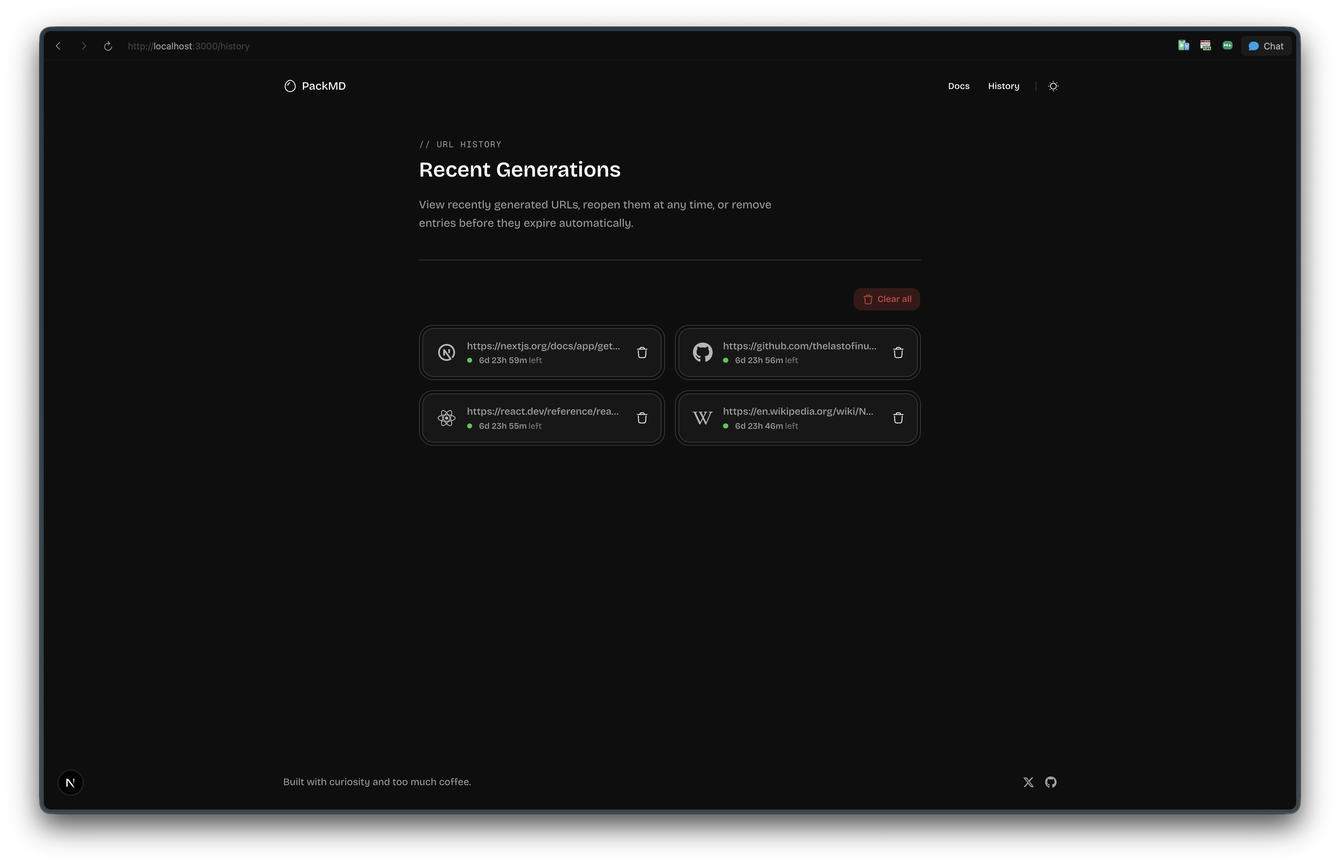
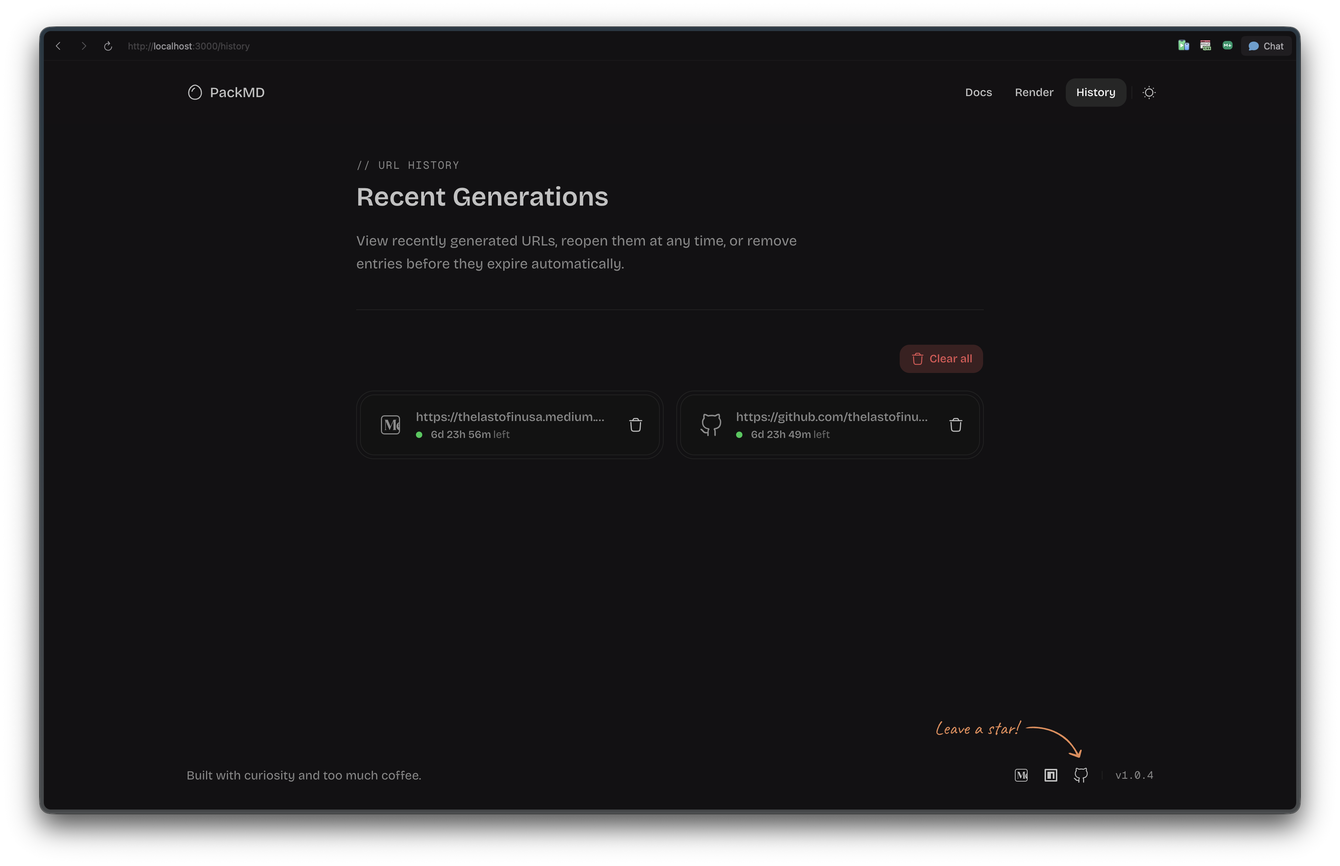
style(theme): update color palette and shadow configuration

diff --git a/apps/web/components/leave-a-star.tsx b/apps/web/components/leave-a-star.tsx
@@ -15,7 +15,7 @@ export const LeaveAStar = () => {
       <svg
         viewBox="0 0 374 118"
         xmlns="http://www.w3.org/2000/svg"
-        className="w-30 fill-muted-foreground sm:w-35"
+        className="w-30 fill-primary sm:w-35"
       >
         <path d="M224.152 30.8296C237.643 23.1003 278.398 28.1952 301.896 40.0697C327.322 52.847 339.091 64.4954 357.957 95.905C358.819 93.8359 359.343 92.0692 360.081 90.5793C360.85 88.8453 361.68 87.0203 362.816 85.5339C363.123 85.0785 364.502 84.8159 365.114 85.0962C365.726 85.3765 366.214 86.6329 366.09 87.2121C364.793 92.6978 363.313 98.0597 361.862 103.575C361.338 105.341 360.051 106.063 358.183 105.466C351.236 102.9 344.227 100.425 337.25 97.7066C335.689 97.0514 334.283 95.5731 332.448 94.3352C336.558 91.4092 339.554 94.0928 342.615 94.7001C345.83 95.2784 348.921 96.4357 352.87 97.5091C348.694 87.2717 343.136 78.885 336.321 71.3729C311.444 43.7275 279.739 31.3527 243.141 30.7841C238.363 30.7417 233.615 31.2494 228.868 31.36C227.551 31.1346 226.326 30.971 224.152 30.8296Z" />
         <path d="M5.56786 47.824C4.28786 47.504 3.13586 46.864 2.11186 45.904C1.11986 44.944 0.479856 43.952 0.191856 42.928C0.159856 42.512 0.111856 41.968 0.0478557 41.296C0.0158557 40.624 -0.000144362 40 -0.000144362 39.424C0.0318557 38.848 0.0798557 38.512 0.143856 38.416C0.239856 38.352 0.287856 38.16 0.287856 37.84C0.255856 37.712 0.271856 37.504 0.335856 37.216C0.431856 36.896 0.527856 36.576 0.623856 36.256C0.783856 35.872 0.863856 35.568 0.863856 35.344C0.863856 35.088 0.847856 34.896 0.815856 34.768C0.815856 34.768 0.863856 34.672 0.959856 34.48C1.05586 34.256 1.16786 34.08 1.29586 33.952C1.48786 33.76 1.56786 33.568 1.53586 33.376C1.53586 33.184 1.53586 33.088 1.53586 33.088C1.50386 32.96 1.53586 32.784 1.63186 32.56C1.72786 32.336 1.82386 32.16 1.91986 32.032C1.98386 31.968 2.06386 31.84 2.15986 31.648C2.28786 31.424 2.35186 31.312 2.35186 31.312C2.35186 31.216 2.41586 30.96 2.54386 30.544C2.70386 30.128 2.87986 29.68 3.07186 29.2C3.26386 28.688 3.43986 28.224 3.59986 27.808C3.79186 27.392 3.93586 27.12 4.03186 26.992V26.896C4.15986 26.576 4.33586 26.24 4.55986 25.888C4.59186 25.728 4.67186 25.472 4.79986 25.12C4.92786 24.736 5.07186 24.368 5.23186 24.016C5.58386 23.248 6.01586 22.384 6.52786 21.424C7.07186 20.432 7.64786 19.456 8.25586 18.496C8.86386 17.504 9.43986 16.624 9.98386 15.856C10.5599 15.056 11.0559 14.464 11.4719 14.08C12.0159 13.472 12.4479 13.152 12.7679 13.12C13.0879 13.088 13.4879 13.312 13.9679 13.792C14.1919 14.016 14.3519 14.288 14.4479 14.608C14.5439 14.928 14.5759 15.216 14.5439 15.472C14.5439 15.696 14.4799 15.824 14.3519 15.856C14.1279 15.984 13.7919 16.352 13.3439 16.96C12.8959 17.536 12.3839 18.224 11.8079 19.024C11.2639 19.824 10.7199 20.656 10.1759 21.52C9.66386 22.352 9.21586 23.104 8.83186 23.776C8.41586 24.704 8.03186 25.52 7.67986 26.224C7.32786 26.896 7.15186 27.232 7.15186 27.232C7.11986 27.328 7.08786 27.408 7.05586 27.472C7.02386 27.536 6.99186 27.6 6.95986 27.664C6.47986 28.656 6.07986 29.568 5.75986 30.4C5.43986 31.2 5.11986 32.048 4.79986 32.944C4.60786 33.168 4.49586 33.392 4.46386 33.616C4.43186 33.84 4.41586 33.952 4.41586 33.952C4.35186 33.92 4.30386 34 4.27186 34.192C4.23986 34.352 4.17586 34.544 4.07986 34.768C3.91986 34.896 3.82386 35.104 3.79186 35.392C3.75986 35.648 3.74386 35.904 3.74386 36.16C3.51986 36.736 3.31186 37.44 3.11986 38.272C2.92786 39.072 2.78386 39.856 2.68786 40.624C2.62386 41.36 2.60786 41.936 2.63986 42.352C2.70386 42.896 2.97586 43.392 3.45586 43.84C3.96786 44.256 4.57586 44.608 5.27986 44.896C5.63186 45.024 5.93586 45.136 6.19186 45.232C6.44786 45.296 6.68786 45.328 6.91186 45.328C7.16786 45.36 7.48786 45.36 7.87186 45.328C8.28786 45.264 8.84786 45.168 9.55186 45.04H9.50386C9.91986 44.976 10.3519 44.896 10.7999 44.8C11.2799 44.672 11.7279 44.56 12.1439 44.464C12.5279 44.4 12.8959 44.336 13.2479 44.272C13.5999 44.176 13.8719 44.096 14.0639 44.032C14.7679 43.84 15.2799 43.712 15.5999 43.648C15.9199 43.552 16.1599 43.568 16.3199 43.696C16.4799 43.824 16.5919 43.984 16.6559 44.176C16.7199 44.336 16.7039 44.56 16.6079 44.848C16.5439 45.008 16.2879 45.248 15.8399 45.568C15.3919 45.856 14.8479 46.144 14.2079 46.432C13.5999 46.72 12.9919 46.96 12.3839 47.152C11.7439 47.44 10.9759 47.664 10.0799 47.824C9.21586 47.984 8.36786 48.064 7.53586 48.064C6.73586 48.064 6.07986 47.984 5.56786 47.824ZM28.8374 44.32C28.1654 44.896 27.3814 45.232 26.4854 45.328C25.6214 45.424 24.7734 45.296 23.9414 44.944C23.1094 44.56 22.4214 43.984 21.8774 43.216C21.3334 42.512 20.9814 41.712 20.8214 40.816C20.6614 39.888 20.6454 38.688 20.7734 37.216C20.8694 35.968 21.2694 34.72 21.9734 33.472C22.6774 32.192 23.5254 31.056 24.5174 30.064C25.5414 29.072 26.5494 28.384 27.5414 28C28.0214 27.68 28.4214 27.536 28.7414 27.568C29.0934 27.568 29.6214 27.6 30.3254 27.664C31.0614 27.76 31.6054 27.904 31.9574 28.096C32.3414 28.288 32.6454 28.544 32.8694 28.864C33.3494 29.344 33.6694 29.824 33.8294 30.304C33.9894 30.752 34.0694 31.2 34.0694 31.648C33.9414 32.352 33.4614 33.216 32.6294 34.24C31.8294 35.232 30.7734 36.048 29.4614 36.688C28.7574 36.912 27.9894 37.008 27.1574 36.976C26.3254 36.944 25.6374 36.736 25.0934 36.352C24.4854 36.096 24.0854 36.144 23.8934 36.496C23.7014 36.816 23.5254 37.616 23.3654 38.896C23.2374 40.112 23.3334 41.008 23.6534 41.584C23.9734 42.128 24.4054 42.448 24.9494 42.544C25.5894 42.672 26.0854 42.768 26.4374 42.832C26.8214 42.864 27.2854 42.72 27.8294 42.4C28.3414 42.08 28.6614 41.904 28.7894 41.872C28.9174 41.808 29.0134 41.744 29.0774 41.68C29.1734 41.584 29.3814 41.376 29.7014 41.056C29.9254 40.832 30.1014 40.672 30.2294 40.576C30.3574 40.448 30.5014 40.384 30.6614 40.384C30.8214 40.384 30.9654 40.464 31.0934 40.624C31.2214 40.752 31.3494 40.848 31.4774 40.912C31.7974 40.912 31.8614 41.104 31.6694 41.488C31.5094 41.872 31.1734 42.336 30.6614 42.88C30.1494 43.392 29.5414 43.872 28.8374 44.32ZM28.7894 34.144C29.1414 33.984 29.5094 33.76 29.8934 33.472C30.2774 33.152 30.5974 32.816 30.8534 32.464C31.1414 32.08 31.2854 31.76 31.2854 31.504C31.2854 31.056 31.0774 30.688 30.6614 30.4C30.2454 30.08 29.6214 30.032 28.7894 30.256C28.4374 30.352 28.0374 30.592 27.5894 30.976C27.1414 31.328 26.7094 31.728 26.2934 32.176C25.9094 32.624 25.5894 33.024 25.3334 33.376C25.1094 33.728 25.0294 33.936 25.0934 34C25.1894 34.16 25.4614 34.288 25.9094 34.384C26.3574 34.448 26.8534 34.464 27.3974 34.432C27.9734 34.4 28.4374 34.304 28.7894 34.144ZM40.0787 44.608C39.8227 44.672 39.4867 44.704 39.0707 44.704C38.6547 44.672 38.2867 44.624 37.9667 44.56C37.6787 44.464 37.5347 44.368 37.5347 44.272C37.5347 44.112 37.4547 44.032 37.2947 44.032C37.2947 44.032 37.2147 43.968 37.0547 43.84C36.9267 43.712 36.7187 43.584 36.4307 43.456C36.1427 43.008 35.9987 42.528 35.9987 42.016C35.9987 41.472 36.1427 40.624 36.4307 39.472C36.5267 38.672 36.8307 37.744 37.3427 36.688C37.8867 35.6 38.5427 34.496 39.3107 33.376C40.0787 32.256 40.8787 31.248 41.7107 30.352C42.5747 29.456 43.3587 28.8 44.0627 28.384C44.5107 27.936 45.0547 27.696 45.6947 27.664C46.3347 27.632 46.9427 27.776 47.5187 28.096C47.8387 28.256 48.1587 28.512 48.4787 28.864C48.7987 29.216 49.1027 29.6 49.3907 30.016C49.6787 30.432 49.9187 30.848 50.1107 31.264C50.2067 31.616 50.2547 31.936 50.2547 32.224C50.2867 32.48 50.2867 32.8 50.2547 33.184C50.2547 33.568 50.2067 34.144 50.1107 34.912C49.9507 35.488 49.8067 36.192 49.6787 37.024C49.5827 37.856 49.5347 38.576 49.5347 39.184C49.4707 39.792 49.5347 40.224 49.7267 40.48C49.9507 40.736 50.2707 40.752 50.6867 40.528C51.0707 40.336 51.4387 40.256 51.7907 40.288C52.1427 40.288 52.4147 40.384 52.6067 40.576C52.8307 40.768 52.9427 41.056 52.9427 41.44C52.9427 41.824 52.7507 42.224 52.3667 42.64C52.0147 43.024 51.5667 43.36 51.0227 43.648C50.5107 43.904 50.0147 44.032 49.5347 44.032C49.1827 44.032 48.8467 43.824 48.5267 43.408C48.2067 42.96 47.9187 42.432 47.6627 41.824C47.4387 41.184 47.2307 40.576 47.0387 40L46.7507 38.896L44.6867 40.864C44.2707 41.312 43.8547 41.728 43.4387 42.112C43.0547 42.464 42.8147 42.72 42.7187 42.88C42.5587 43.168 42.2547 43.456 41.8067 43.744C41.3907 44.032 40.8147 44.32 40.0787 44.608ZM40.2227 41.776C40.7667 41.456 41.3907 40.992 42.0947 40.384C42.7987 39.744 43.4867 39.056 44.1587 38.32C44.8307 37.552 45.3907 36.848 45.8387 36.208C46.3827 35.472 46.7987 34.784 47.0867 34.144C47.3747 33.504 47.5827 32.896 47.7107 32.32C47.5827 31.968 47.3747 31.6 47.0867 31.216C46.7987 30.8 46.5427 30.576 46.3187 30.544C45.6147 30.544 44.8627 30.992 44.0627 31.888C43.2947 32.752 42.5427 33.696 41.8067 34.72C41.6787 34.88 41.5027 35.136 41.2787 35.488C41.0547 35.84 40.8307 36.176 40.6067 36.496C40.4147 36.784 40.2867 36.976 40.2227 37.072C40.1267 37.2 39.9347 37.568 39.6467 38.176C39.3907 38.752 39.1347 39.344 38.8787 39.952C38.6227 40.528 38.4947 40.912 38.4947 41.104C38.4947 41.296 38.5107 41.504 38.5427 41.728C38.6067 41.952 38.7667 42.096 39.0227 42.16C39.2787 42.224 39.6787 42.096 40.2227 41.776ZM59.2484 43.072C59.0244 42.88 58.7364 42.304 58.3844 41.344C58.0644 40.384 57.7444 39.264 57.4244 37.984C57.1364 36.672 56.8964 35.472 56.7044 34.384C56.5764 33.744 56.4324 33.2 56.2724 32.752C56.1444 32.304 56.0324 31.936 55.9364 31.648C55.7764 31.072 55.7284 30.592 55.7924 30.208C55.8564 29.824 56.0804 29.52 56.4644 29.296C56.6244 29.2 56.8164 29.136 57.0404 29.104C57.2964 29.04 57.4884 29.024 57.6164 29.056C58.0004 29.184 58.3524 29.776 58.6724 30.832C58.9924 31.856 59.2804 33.216 59.5364 34.912C59.6644 35.904 59.8244 36.752 60.0164 37.456C60.2084 38.16 60.3044 38.576 60.3044 38.704C60.4324 38.96 60.5764 39.216 60.7364 39.472C60.9284 39.696 61.1524 39.68 61.4084 39.424C61.5364 39.296 61.7924 39.008 62.1764 38.56C62.5924 38.112 62.9924 37.632 63.3764 37.12C64.0484 36.224 64.5764 35.488 64.9604 34.912C65.3764 34.336 65.8404 33.728 66.3524 33.088C66.5764 32.768 66.8324 32.416 67.1204 32.032C67.4084 31.648 67.6964 31.296 67.9844 30.976C68.3044 30.624 68.5924 30.416 68.8484 30.352C69.6164 30.224 70.0324 30.384 70.0964 30.832C70.1604 31.28 69.8724 31.952 69.2324 32.848C68.9764 33.232 68.7684 33.6 68.6084 33.952C68.4804 34.272 68.3524 34.496 68.2244 34.624C67.9684 35.136 67.5684 35.792 67.0244 36.592C66.4804 37.36 65.9524 38.08 65.4404 38.752C64.9284 39.392 64.5764 39.808 64.3844 40C64.2564 40.128 63.9684 40.368 63.5204 40.72C63.1044 41.072 62.7044 41.52 62.3204 42.064C61.5524 42.8 60.9444 43.248 60.4964 43.408C60.0484 43.568 59.6324 43.456 59.2484 43.072ZM74.515 44.848C73.267 44.336 72.451 43.632 72.067 42.736C71.715 41.808 71.651 40.384 71.875 38.464C71.939 37.472 71.971 36.816 71.971 36.496C71.971 36.176 71.795 35.856 71.443 35.536C71.347 35.408 71.171 35.232 70.915 35.008C70.691 34.784 70.595 34.592 70.627 34.432C70.595 34.208 70.611 33.968 70.675 33.712C70.739 33.424 70.835 33.28 70.963 33.28C71.091 33.28 71.219 33.248 71.347 33.184C71.507 33.12 71.651 33.12 71.779 33.184C71.907 33.184 72.051 33.2 72.211 33.232C72.371 33.264 72.451 33.344 72.451 33.472C72.579 33.696 72.787 33.728 73.075 33.568C73.363 33.376 73.667 32.96 73.987 32.32C74.307 31.808 74.723 31.296 75.235 30.784C75.779 30.272 76.307 29.808 76.819 29.392C77.363 28.944 77.811 28.624 78.163 28.432C78.323 28.368 78.563 28.288 78.883 28.192C79.203 28.096 79.539 28.016 79.891 27.952C80.275 27.888 80.595 27.872 80.851 27.904C81.427 27.936 81.907 28.096 82.291 28.384C82.707 28.672 83.091 29.008 83.443 29.392C83.859 29.68 84.115 30.064 84.211 30.544C84.339 31.024 84.371 31.536 84.307 32.08C84.243 32.624 84.099 33.12 83.875 33.568C83.779 33.888 83.507 34.272 83.059 34.72C82.611 35.168 82.099 35.6 81.523 36.016C80.947 36.432 80.419 36.736 79.939 36.928C79.523 37.024 78.979 37.104 78.307 37.168C77.667 37.232 77.059 37.264 76.483 37.264C75.939 37.232 75.571 37.168 75.379 37.072C75.155 36.944 74.979 37.12 74.851 37.6C74.723 38.08 74.627 38.768 74.563 39.664C74.499 40.368 74.499 40.88 74.563 41.2C74.627 41.52 74.691 41.744 74.755 41.872C74.979 42.096 75.283 42.384 75.667 42.736C76.083 43.056 76.659 43.104 77.395 42.88C78.003 42.72 78.595 42.304 79.171 41.632C79.779 40.96 80.339 40.416 80.851 40C80.979 39.776 81.187 39.648 81.475 39.616C81.795 39.552 82.131 39.568 82.483 39.664C82.835 39.888 82.979 40.16 82.915 40.48C82.883 40.768 82.723 41.216 82.435 41.824C82.339 42.048 82.115 42.336 81.763 42.688C81.443 43.008 81.075 43.344 80.659 43.696C80.275 44.016 79.923 44.272 79.603 44.464C78.643 44.976 77.747 45.248 76.915 45.28C76.083 45.28 75.283 45.136 74.515 44.848ZM77.347 35.104C78.051 34.944 78.611 34.832 79.027 34.768C79.443 34.704 79.843 34.528 80.227 34.24C80.611 33.92 81.091 33.328 81.667 32.464C81.795 32.112 81.827 31.76 81.763 31.408C81.731 31.056 81.651 30.816 81.523 30.688C81.235 30.368 80.883 30.272 80.467 30.4C80.083 30.496 79.715 30.672 79.363 30.928C79.139 31.024 78.803 31.264 78.355 31.648C77.939 32 77.523 32.416 77.107 32.896C76.691 33.344 76.355 33.76 76.099 34.144C75.843 34.528 75.779 34.752 75.907 34.816C75.843 34.944 76.019 35.024 76.435 35.056C76.883 35.088 77.187 35.104 77.347 35.104ZM98.7254 44.272C98.5974 44.016 98.4374 43.824 98.2454 43.696C98.0534 43.536 97.9574 43.392 97.9574 43.264C97.9574 43.136 97.9414 43.008 97.9094 42.88C97.9094 42.72 97.8454 42.576 97.7174 42.448C97.5574 42.256 97.5734 41.824 97.7654 41.152C97.9574 40.448 98.2774 39.6 98.7254 38.608C99.1734 37.584 99.7014 36.512 100.309 35.392C100.565 35.136 100.821 34.8 101.077 34.384C101.333 33.968 101.525 33.696 101.653 33.568C101.653 33.44 101.701 33.328 101.797 33.232C101.893 33.104 102.005 33.04 102.133 33.04V32.752C102.133 32.592 102.277 32.32 102.565 31.936C102.885 31.552 103.269 31.136 103.717 30.688C104.165 30.208 104.629 29.76 105.109 29.344C105.589 28.896 105.989 28.576 106.309 28.384C106.981 27.936 107.669 27.664 108.373 27.568C109.109 27.472 109.733 27.632 110.245 28.048C110.341 28.144 110.501 28.304 110.725 28.528C110.949 28.752 111.205 29.008 111.493 29.296C111.813 29.552 112.133 29.824 112.453 30.112L114.229 31.696L113.365 34.096C112.949 35.376 112.837 36.496 113.029 37.456C113.253 38.416 113.573 39.248 113.989 39.952C114.149 40.304 114.469 40.64 114.949 40.96C115.461 41.28 115.941 41.472 116.389 41.536C116.645 41.568 116.885 41.664 117.109 41.824C117.333 41.984 117.445 42.24 117.445 42.592C117.445 42.912 117.381 43.168 117.253 43.36C117.125 43.552 116.901 43.68 116.581 43.744C115.525 43.872 114.533 43.616 113.605 42.976C112.709 42.336 111.877 41.28 111.109 39.808C110.981 39.616 110.805 39.264 110.581 38.752C110.389 38.208 110.277 37.856 110.245 37.696C110.117 37.856 109.877 38.16 109.525 38.608C109.173 39.024 108.901 39.328 108.709 39.52C106.437 41.824 104.469 43.376 102.805 44.176C101.173 44.944 99.8134 44.976 98.7254 44.272ZM100.453 41.584C100.453 41.808 100.789 41.808 101.461 41.584C102.165 41.328 102.917 40.88 103.717 40.24C104.805 39.312 105.893 38.288 106.981 37.168C108.101 36.048 108.997 35.008 109.669 34.048L110.725 32.32C110.405 31.584 110.053 31.088 109.669 30.832C109.317 30.544 109.013 30.4 108.757 30.4C108.341 30.4 107.717 30.784 106.885 31.552C106.085 32.32 105.221 33.344 104.293 34.624C103.365 35.904 102.485 37.312 101.653 38.848C101.333 39.488 101.045 40.112 100.789 40.72C100.565 41.296 100.453 41.584 100.453 41.584ZM135.527 45.568C134.727 45.632 133.959 45.584 133.223 45.424C132.519 45.264 131.911 44.992 131.399 44.608C130.919 44.192 130.583 43.696 130.391 43.12C130.167 42.672 130.055 42.368 130.055 42.208C130.055 42.016 130.167 41.856 130.391 41.728C130.647 41.728 130.871 41.808 131.063 41.968C131.287 42.096 131.575 42.24 131.927 42.4C132.407 42.816 132.983 43.04 133.655 43.072C134.359 43.104 134.999 42.992 135.575 42.736C136.151 42.48 136.471 42.16 136.535 41.776C136.535 41.648 136.487 41.424 136.391 41.104C136.295 40.784 136.183 40.448 136.055 40.096C135.191 38.88 134.551 37.68 134.135 36.496C133.751 35.28 133.559 34.288 133.559 33.52C133.559 32.944 133.735 32.336 134.087 31.696C134.439 31.024 134.919 30.464 135.527 30.016C136.103 29.408 136.743 28.864 137.447 28.384C138.151 27.904 138.855 27.488 139.559 27.136C140.295 26.784 140.951 26.528 141.527 26.368C141.879 26.368 142.343 26.416 142.919 26.512C143.495 26.608 143.895 26.72 144.119 26.848C144.471 26.976 144.807 27.328 145.127 27.904C145.447 28.448 145.607 28.992 145.607 29.536C145.607 29.76 145.543 30.048 145.415 30.4C145.287 30.752 145.079 31.168 144.791 31.648C144.663 32 144.519 32.336 144.359 32.656C144.199 32.944 144.119 33.152 144.119 33.28C143.959 33.632 143.735 33.808 143.447 33.808C143.191 33.776 142.919 33.632 142.631 33.376C142.375 33.088 142.167 32.752 142.007 32.368C141.879 31.888 141.831 31.504 141.863 31.216C141.895 30.896 142.023 30.56 142.247 30.208C142.599 29.856 142.775 29.616 142.775 29.488C142.775 29.36 142.599 29.296 142.247 29.296C142.023 29.296 141.607 29.44 140.999 29.728C140.423 29.984 139.799 30.336 139.127 30.784C138.487 31.2 137.927 31.648 137.447 32.128C136.839 32.704 136.471 33.12 136.343 33.376C136.247 33.632 136.199 34.032 136.199 34.576C136.199 35.024 136.295 35.584 136.487 36.256C136.711 36.928 136.935 37.376 137.159 37.6C137.159 37.6 137.271 37.824 137.495 38.272C137.719 38.688 137.991 39.136 138.311 39.616C139.239 41.664 139.479 43.136 139.031 44.032C138.583 44.928 137.415 45.44 135.527 45.568ZM151.647 48.4C150.591 48.24 149.871 47.84 149.487 47.2C149.135 46.592 149.055 45.648 149.247 44.368C149.439 43.76 149.551 43.216 149.583 42.736C149.647 42.224 149.791 41.904 150.015 41.776C150.015 41.776 150.031 41.728 150.063 41.632C150.127 41.536 150.111 41.44 150.015 41.344C150.015 40.928 150.159 40.352 150.447 39.616C150.511 39.424 150.591 39.2 150.687 38.944C150.815 38.656 150.879 38.512 150.879 38.512C150.719 38.256 150.719 38.048 150.879 37.888C151.039 37.728 151.199 37.584 151.359 37.456C151.551 37.296 151.567 37.12 151.407 36.928C151.343 36.8 151.423 36.512 151.647 36.064C151.871 35.584 152.127 35.088 152.415 34.576C152.703 34.064 152.895 33.664 152.991 33.376C152.991 33.312 153.071 33.088 153.231 32.704C153.391 32.32 153.583 31.872 153.807 31.36C154.031 30.848 154.239 30.384 154.431 29.968C154.655 29.552 154.799 29.28 154.863 29.152C155.183 28.992 155.055 28.88 154.479 28.816C153.903 28.752 153.295 28.736 152.655 28.768C151.663 28.736 150.863 28.688 150.255 28.624C149.679 28.56 149.199 28.416 148.815 28.192C148.431 27.744 148.287 27.424 148.383 27.232C148.511 27.008 148.895 26.88 149.535 26.848C149.951 26.816 150.271 26.8 150.495 26.8C150.751 26.8 151.071 26.784 151.455 26.752C151.871 26.688 152.511 26.608 153.375 26.512L155.823 26.32L155.967 25.504C156.223 25.088 156.431 24.72 156.591 24.4C156.783 24.048 156.943 23.696 157.071 23.344C157.199 22.992 157.295 22.624 157.359 22.24C157.359 22.24 157.503 21.984 157.791 21.472C158.079 20.928 158.255 20.368 158.319 19.792C158.703 19.152 159.039 18.576 159.327 18.064C159.615 17.52 159.791 17.184 159.855 17.056C160.207 16.768 160.447 16.624 160.575 16.624C160.735 16.624 161.055 16.784 161.535 17.104C161.823 17.264 162.079 17.456 162.303 17.68C162.527 17.904 162.671 18.144 162.735 18.4C162.799 18.624 162.703 18.848 162.447 19.072C162.383 19.2 162.287 19.44 162.159 19.792C162.031 20.112 161.935 20.384 161.871 20.608C161.679 20.832 161.439 21.2 161.151 21.712C160.895 22.192 160.719 22.688 160.623 23.2C160.367 23.744 160.127 24.24 159.903 24.688C159.679 25.104 159.503 25.312 159.375 25.312C159.439 25.632 159.631 25.792 159.951 25.792C160.271 25.76 160.799 25.728 161.535 25.696C162.143 25.632 162.559 25.568 162.783 25.504C163.039 25.408 163.327 25.44 163.647 25.6C163.807 25.824 163.935 26.08 164.031 26.368C164.127 26.656 164.143 26.928 164.079 27.184C164.047 27.408 163.919 27.568 163.695 27.664C163.535 27.664 163.199 27.76 162.687 27.952C162.207 28.112 161.599 28.208 160.863 28.24L158.319 28.48L157.503 30.112C157.279 30.528 157.087 30.912 156.927 31.264C156.767 31.584 156.655 31.776 156.591 31.84C156.591 32.032 156.479 32.32 156.255 32.704C156.063 33.088 155.855 33.504 155.631 33.952C155.439 34.496 155.215 34.992 154.959 35.44C154.735 35.888 154.623 36.112 154.623 36.112C154.495 36.112 154.431 36.208 154.431 36.4C154.591 36.784 154.543 37.072 154.287 37.264C154.127 37.36 153.983 37.504 153.855 37.696C153.759 37.856 153.711 37.936 153.711 37.936C153.839 38.064 153.855 38.224 153.759 38.416C153.695 38.608 153.599 38.816 153.471 39.04C153.471 39.296 153.391 39.664 153.231 40.144C153.103 40.624 152.959 41.072 152.799 41.488C152.831 42.064 152.863 42.432 152.895 42.592C152.927 42.752 153.007 42.816 153.135 42.784C153.295 42.816 153.439 42.816 153.567 42.784C153.695 42.752 153.823 42.736 153.951 42.736C154.399 42.544 154.159 43.664 153.231 46.096C152.719 46.896 152.367 47.472 152.175 47.824C151.983 48.208 151.807 48.4 151.647 48.4ZM167.297 44.608C167.041 44.672 166.705 44.704 166.289 44.704C165.873 44.672 165.505 44.624 165.185 44.56C164.897 44.464 164.753 44.368 164.753 44.272C164.753 44.112 164.673 44.032 164.513 44.032C164.513 44.032 164.433 43.968 164.273 43.84C164.145 43.712 163.937 43.584 163.649 43.456C163.361 43.008 163.217 42.528 163.217 42.016C163.217 41.472 163.361 40.624 163.649 39.472C163.745 38.672 164.049 37.744 164.561 36.688C165.105 35.6 165.761 34.496 166.529 33.376C167.297 32.256 168.097 31.248 168.929 30.352C169.793 29.456 170.577 28.8 171.281 28.384C171.729 27.936 172.273 27.696 172.913 27.664C173.553 27.632 174.161 27.776 174.737 28.096C175.057 28.256 175.377 28.512 175.697 28.864C176.017 29.216 176.321 29.6 176.609 30.016C176.897 30.432 177.137 30.848 177.329 31.264C177.425 31.616 177.473 31.936 177.473 32.224C177.505 32.48 177.505 32.8 177.473 33.184C177.473 33.568 177.425 34.144 177.329 34.912C177.169 35.488 177.025 36.192 176.897 37.024C176.801 37.856 176.753 38.576 176.753 39.184C176.689 39.792 176.753 40.224 176.945 40.48C177.169 40.736 177.489 40.752 177.905 40.528C178.289 40.336 178.657 40.256 179.009 40.288C179.361 40.288 179.633 40.384 179.825 40.576C180.049 40.768 180.161 41.056 180.161 41.44C180.161 41.824 179.969 42.224 179.585 42.64C179.233 43.024 178.785 43.36 178.241 43.648C177.729 43.904 177.233 44.032 176.753 44.032C176.401 44.032 176.065 43.824 175.745 43.408C175.425 42.96 175.137 42.432 174.881 41.824C174.657 41.184 174.449 40.576 174.257 40L173.969 38.896L171.905 40.864C171.489 41.312 171.073 41.728 170.657 42.112C170.273 42.464 170.033 42.72 169.937 42.88C169.777 43.168 169.473 43.456 169.025 43.744C168.609 44.032 168.033 44.32 167.297 44.608ZM167.441 41.776C167.985 41.456 168.609 40.992 169.313 40.384C170.017 39.744 170.705 39.056 171.377 38.32C172.049 37.552 172.609 36.848 173.057 36.208C173.601 35.472 174.017 34.784 174.305 34.144C174.593 33.504 174.801 32.896 174.929 32.32C174.801 31.968 174.593 31.6 174.305 31.216C174.017 30.8 173.761 30.576 173.537 30.544C172.833 30.544 172.081 30.992 171.281 31.888C170.513 32.752 169.761 33.696 169.025 34.72C168.897 34.88 168.721 35.136 168.497 35.488C168.273 35.84 168.049 36.176 167.825 36.496C167.633 36.784 167.505 36.976 167.441 37.072C167.345 37.2 167.153 37.568 166.865 38.176C166.609 38.752 166.353 39.344 166.097 39.952C165.841 40.528 165.713 40.912 165.713 41.104C165.713 41.296 165.729 41.504 165.761 41.728C165.825 41.952 165.985 42.096 166.241 42.16C166.497 42.224 166.897 42.096 167.441 41.776ZM183.395 44.32C183.107 44.096 182.899 43.872 182.771 43.648C182.675 43.424 182.675 42.992 182.771 42.352C182.867 41.456 182.995 40.672 183.155 40C183.315 39.296 183.507 38.496 183.731 37.6C183.795 37.216 183.971 36.56 184.259 35.632C184.579 34.704 184.963 33.696 185.411 32.608C185.859 31.52 186.307 30.496 186.755 29.536C187.203 28.544 187.587 27.808 187.907 27.328C188.163 27.136 188.467 27.056 188.819 27.088C189.203 27.12 189.523 27.264 189.779 27.52C190.131 27.808 190.179 28.32 189.923 29.056C189.699 29.76 189.219 30.88 188.483 32.416C188.099 33.28 187.811 33.936 187.619 34.384C187.427 34.8 187.347 35.056 187.379 35.152C187.411 35.216 187.555 35.168 187.811 35.008C188.003 34.656 188.355 34.256 188.867 33.808C189.379 33.328 189.923 32.864 190.499 32.416C191.075 31.968 191.619 31.568 192.131 31.216C192.643 30.864 192.995 30.64 193.187 30.544C193.443 30.384 193.731 30.256 194.051 30.16C194.403 30.032 194.643 29.936 194.771 29.872C195.507 29.52 196.259 29.392 197.027 29.488C197.795 29.584 198.275 29.872 198.467 30.352C198.499 30.608 198.595 30.8 198.755 30.928C198.947 31.056 199.043 31.12 199.043 31.12C199.171 31.12 199.235 31.168 199.235 31.264C199.267 31.36 199.283 31.408 199.283 31.408C199.283 31.632 199.107 31.776 198.755 31.84C198.435 31.872 198.019 31.904 197.507 31.936C197.091 31.968 196.723 32.048 196.403 32.176C196.083 32.304 195.699 32.464 195.251 32.656C194.035 33.36 192.867 34.048 191.747 34.72C190.659 35.392 189.603 36.288 188.579 37.408C188.355 37.664 188.131 37.968 187.907 38.32C187.683 38.672 187.443 39.056 187.187 39.472C187.027 39.632 186.867 39.984 186.707 40.528C186.547 41.072 186.403 41.6 186.275 42.112C186.179 42.592 186.131 42.88 186.131 42.976C186.131 42.976 186.083 43.136 185.987 43.456C185.891 43.744 185.731 44.032 185.507 44.32C185.123 44.832 184.803 45.088 184.547 45.088C184.291 45.088 183.907 44.832 183.395 44.32ZM204.436 37.84C203.54 38 202.948 37.568 202.66 36.544C202.372 35.52 202.452 34.112 202.9 32.32C203.092 31.936 203.252 31.568 203.38 31.216C203.508 30.832 203.572 30.528 203.572 30.304C203.7 29.888 203.86 29.408 204.052 28.864C204.276 28.288 204.5 27.76 204.724 27.28C204.948 26.768 205.108 26.432 205.204 26.272C205.332 26.272 205.46 26.16 205.588 25.936C205.748 25.712 205.828 25.488 205.828 25.264C205.828 25.008 205.876 24.72 205.972 24.4C206.1 24.08 206.228 23.856 206.356 23.728C206.356 23.568 206.42 23.392 206.548 23.2C206.676 23.008 206.74 22.848 206.74 22.72C206.74 22.592 206.772 22.48 206.836 22.384C206.932 22.288 206.98 22.176 206.98 22.048C207.268 21.536 207.636 20.784 208.084 19.792C208.564 18.768 209.028 17.696 209.476 16.576C209.956 15.456 210.356 14.464 210.676 13.6C210.996 12.736 211.156 12.208 211.156 12.016C211.22 11.76 211.316 11.568 211.444 11.44C211.572 11.312 211.764 11.28 212.02 11.344C212.148 11.248 212.276 11.2 212.404 11.2C212.532 11.168 212.66 11.152 212.788 11.152C212.788 11.152 212.836 11.216 212.932 11.344C213.06 11.472 213.236 11.664 213.46 11.92C213.716 12.144 213.86 12.4 213.892 12.688C213.924 12.976 213.94 13.312 213.94 13.696C213.908 14.304 213.684 14.992 213.268 15.76C212.852 16.528 212.388 17.376 211.876 18.304C211.556 18.912 211.236 19.488 210.916 20.032C210.628 20.576 210.484 20.912 210.484 21.04C210.484 21.168 210.42 21.36 210.292 21.616C210.164 21.872 210.02 22.192 209.86 22.576C209.668 22.896 209.46 23.28 209.236 23.728C209.012 24.176 208.804 24.592 208.612 24.976C208.452 25.328 208.372 25.552 208.372 25.648C208.34 25.776 208.292 25.904 208.228 26.032C208.196 26.16 208.116 26.288 207.988 26.416C207.86 26.416 207.78 26.512 207.748 26.704C207.748 26.864 207.748 26.944 207.748 26.944C207.748 27.072 207.668 27.376 207.508 27.856C207.38 28.304 207.156 28.848 206.836 29.488C206.228 31.184 205.796 32.544 205.54 33.568C205.284 34.56 205.124 35.408 205.06 36.112C204.996 36.88 204.932 37.328 204.868 37.456C204.836 37.584 204.692 37.712 204.436 37.84ZM201.844 45.52C201.236 45.744 200.724 45.856 200.308 45.856C199.924 45.824 199.492 45.632 199.012 45.28C198.404 44.704 198.196 44.128 198.388 43.552C198.612 42.944 199.14 42.352 199.972 41.776C200.548 41.424 200.964 41.232 201.22 41.2C201.508 41.168 201.94 41.28 202.516 41.536C203.476 42.144 203.892 42.816 203.764 43.552C203.668 44.288 203.028 44.944 201.844 45.52Z" />

diff --git a/packages/ui/src/styles/globals.css b/packages/ui/src/styles/globals.css
@@ -9,90 +9,90 @@
 
 :root {
   --background: oklch(1 0 0);
-  --foreground: oklch(0.145 0 0);
+  --foreground: oklch(0.2101 0.0318 264.6645);
   --card: oklch(1 0 0);
-  --card-foreground: oklch(0.145 0 0);
+  --card-foreground: oklch(0.2101 0.0318 264.6645);
   --popover: oklch(1 0 0);
-  --popover-foreground: oklch(0.145 0 0);
-  --primary: oklch(0.6112 0.1217 248.9572);
+  --popover-foreground: oklch(0.2101 0.0318 264.6645);
+  --primary: oklch(0.6716 0.1368 48.513);
   --primary-foreground: oklch(1 0 0);
   --secondary: oklch(0.97 0 0);
   --secondary-foreground: oklch(0.205 0 0);
-  --muted: oklch(0.97 0 0);
-  --muted-foreground: oklch(0.556 0 0);
-  --accent: oklch(0.97 0 0);
-  --accent-foreground: oklch(0.205 0 0);
-  --destructive: oklch(0.577 0.245 27.325);
+  --muted: oklch(0.967 0.0029 264.5419);
+  --muted-foreground: oklch(0.551 0.0234 264.3637);
+  --accent: oklch(0.9491 0 0);
+  --accent-foreground: oklch(0.2101 0.0318 264.6645);
+  --destructive: oklch(0.6368 0.2078 25.3313);
   --destructive-foreground: oklch(0.9851 0 0);
-  --border: oklch(94.912% 0.00011 271.152);
-  --input: oklch(90.089% 0.00145 285.315);
-  --ring: oklch(0.6112 0.1217 248.9572);
+  --border: oklch(0.9276 0.0058 264.5313);
+  --input: oklch(0.9276 0.0058 264.5313);
+  --ring: oklch(0.6716 0.1368 48.513);
 
   --shadow-x: 0px;
-  --shadow-y: 4px;
-  --shadow-blur: 10px;
+  --shadow-y: 1px;
+  --shadow-blur: 4px;
   --shadow-spread: 0px;
-  --shadow-opacity: 0.1;
-
+  --shadow-opacity: 0.05;
   --shadow-color: #000000;
-  --shadow-2xs: 0px 4px 10px -3px hsl(0 0% 0% / 0.03);
-  --shadow-xs: 0px 4px 10px -3px hsl(0 0% 0% / 0.03);
+  --shadow-2xs: 0px 1px 4px 0px hsl(0 0% 0% / 0.03);
+  --shadow-xs: 0px 1px 4px 0px hsl(0 0% 0% / 0.03);
   --shadow-sm:
-    0px 4px 10px -3px hsl(0 0% 0% / 0.05), 0px 1px 2px -4px hsl(0 0% 0% / 0.05);
+    0px 1px 4px 0px hsl(0 0% 0% / 0.05), 0px 1px 2px -1px hsl(0 0% 0% / 0.05);
   --shadow:
-    0px 4px 10px -3px hsl(0 0% 0% / 0.05), 0px 1px 2px -4px hsl(0 0% 0% / 0.05);
+    0px 1px 4px 0px hsl(0 0% 0% / 0.05), 0px 1px 2px -1px hsl(0 0% 0% / 0.05);
   --shadow-md:
-    0px 4px 10px -3px hsl(0 0% 0% / 0.05), 0px 2px 4px -4px hsl(0 0% 0% / 0.05);
+    0px 1px 4px 0px hsl(0 0% 0% / 0.05), 0px 2px 4px -1px hsl(0 0% 0% / 0.05);
   --shadow-lg:
-    0px 4px 10px -3px hsl(0 0% 0% / 0.05), 0px 4px 6px -4px hsl(0 0% 0% / 0.05);
+    0px 1px 4px 0px hsl(0 0% 0% / 0.05), 0px 4px 6px -1px hsl(0 0% 0% / 0.05);
   --shadow-xl:
-    0px 4px 10px -3px hsl(0 0% 0% / 0.05), 0px 8px 10px -4px hsl(0 0% 0% / 0.05);
-  --shadow-2xl: 0px 4px 10px -3px hsl(0 0% 0% / 0.13);
+    0px 1px 4px 0px hsl(0 0% 0% / 0.05), 0px 8px 10px -1px hsl(0 0% 0% / 0.05);
+  --shadow-2xl: 0px 1px 4px 0px hsl(0 0% 0% / 0.13);
+
   --code: oklch(0.985 0 0);
   --code-foreground: oklch(0.141 0.005 285.823);
 }
 
 .dark {
-  --background: oklch(16.376% 0.00002 271.152);
-  --foreground: oklch(0.985 0 0);
-  --card: oklch(0.205 0 0);
-  --card-foreground: oklch(0.985 0 0);
-  --popover: oklch(0.205 0 0);
-  --popover-foreground: oklch(0.985 0 0);
-  --primary: oklch(0.6576 0.1208 252.0832);
-  --primary-foreground: oklch(1 0 0);
+  --background: oklch(0.1797 0.0043 308.1928);
+  --foreground: oklch(0.8109 0 0);
+  --card: oklch(0.1822 0 0);
+  --card-foreground: oklch(0.8109 0 0);
+  --popover: oklch(0.1797 0.0043 308.1928);
+  --popover-foreground: oklch(0.8109 0 0);
+  --primary: oklch(0.7214 0.1337 49.9802);
+  --primary-foreground: oklch(0.985 0 0);
   --secondary: oklch(0.269 0 0);
   --secondary-foreground: oklch(0.985 0 0);
-  --muted: oklch(0.269 0 0);
-  --muted-foreground: oklch(0.708 0 0);
-  --accent: oklch(0.269 0 0);
-  --accent-foreground: oklch(0.985 0 0);
-  --destructive: oklch(0.5945 0.1911 25.1414);
-  --destructive-foreground: oklch(1 0 0);
-  --border: oklch(22.62% 0.00418 264.533);
-  --input: oklch(27.148% 0.00474 248.155);
-  --ring: oklch(0.6576 0.1208 252.0832);
+  --muted: oklch(0.252 0 0);
+  --muted-foreground: oklch(0.6268 0 0);
+  --accent: oklch(0.3211 0 0);
+  --accent-foreground: oklch(0.8109 0 0);
+  --destructive: oklch(63.236% 0.17749 23.655);
+  --destructive-foreground: oklch(0.1797 0.0043 308.1928);
+  --border: oklch(0.252 0 0);
+  --input: oklch(0.252 0 0);
+  --ring: oklch(0.7214 0.1337 49.9802);
 
   --shadow-x: 0px;
-  --shadow-y: 6px;
-  --shadow-blur: 15px;
+  --shadow-y: 1px;
+  --shadow-blur: 4px;
   --shadow-spread: 0px;
-  --shadow-opacity: 0.3;
-
+  --shadow-opacity: 0.05;
   --shadow-color: #000000;
-  --shadow-2xs: 0px 6px 12px -4px hsl(0 0% 0% / 0.2);
-  --shadow-xs: 0px 6px 12px -4px hsl(0 0% 0% / 0.2);
+  --shadow-2xs: 0px 1px 4px 0px hsl(0 0% 0% / 0.03);
+  --shadow-xs: 0px 1px 4px 0px hsl(0 0% 0% / 0.03);
   --shadow-sm:
-    0px 6px 12px -4px hsl(0 0% 0% / 0.4), 0px 1px 2px -5px hsl(0 0% 0% / 0.4);
+    0px 1px 4px 0px hsl(0 0% 0% / 0.05), 0px 1px 2px -1px hsl(0 0% 0% / 0.05);
   --shadow:
-    0px 6px 12px -4px hsl(0 0% 0% / 0.4), 0px 1px 2px -5px hsl(0 0% 0% / 0.4);
+    0px 1px 4px 0px hsl(0 0% 0% / 0.05), 0px 1px 2px -1px hsl(0 0% 0% / 0.05);
   --shadow-md:
-    0px 6px 12px -4px hsl(0 0% 0% / 0.4), 0px 2px 4px -5px hsl(0 0% 0% / 0.4);
+    0px 1px 4px 0px hsl(0 0% 0% / 0.05), 0px 2px 4px -1px hsl(0 0% 0% / 0.05);
   --shadow-lg:
-    0px 6px 12px -4px hsl(0 0% 0% / 0.4), 0px 4px 6px -5px hsl(0 0% 0% / 0.4);
+    0px 1px 4px 0px hsl(0 0% 0% / 0.05), 0px 4px 6px -1px hsl(0 0% 0% / 0.05);
   --shadow-xl:
-    0px 6px 12px -4px hsl(0 0% 0% / 0.4), 0px 8px 10px -5px hsl(0 0% 0% / 0.4);
-  --shadow-2xl: 0px 6px 12px -4px hsl(0 0% 0% / 1);
+    0px 1px 4px 0px hsl(0 0% 0% / 0.05), 0px 8px 10px -1px hsl(0 0% 0% / 0.05);
+  --shadow-2xl: 0px 1px 4px 0px hsl(0 0% 0% / 0.13);
+
   --code: oklch(0.21 0.006 285.885);
   --code-foreground: oklch(0.985 0 0);
 }

diff --git a/apps/web/app/(routes)/(landing)/components/footer.tsx b/apps/web/app/(routes)/(landing)/components/footer.tsx
@@ -30,7 +30,7 @@ export const Footer = () => {
             Built with curiosity and too much coffee.
           </p>
 
-          <div className="flex items-center gap-2">
+          <div className="flex items-center gap-3">
             {SOCIALS.map((social) => {
               const Icon = resolveIcon(social.url)
               const isGithub = social.platform.toLowerCase().includes("github")
@@ -49,7 +49,7 @@ export const Footer = () => {
                   >
                     <Tooltip>
                       <TooltipTrigger>
-                        <Icon className="size-4 text-muted-foreground hover:text-foreground sm:size-3.5" />
+                        <Icon className="size-4 text-foreground hover:text-primary" />
                       </TooltipTrigger>
                       <TooltipContent side="top" sideOffset={10}>
                         <p className="text-center font-normal">

diff --git a/apps/web/lib/icons.ts b/apps/web/lib/icons.ts
@@ -8,7 +8,6 @@ import {
 import { BsWikipedia } from "react-icons/bs"
 import { TbBrandNextjs } from "react-icons/tb"
 import {
-  RiGithubLine,
   RiLink,
   RiMediumLine,
   RiNpmjsLine,
@@ -16,6 +15,7 @@ import {
   RiVercelFill,
 } from "react-icons/ri"
 import { Drop } from "reicon-react"
+import { VscGithubAlt } from "react-icons/vsc"
 
 type IconMatcher = {
   keywords: string[]
@@ -33,7 +33,7 @@ const DEFAULT_ICONS: IconMatcher[] = [
   },
   {
     keywords: ["github", "github.com", "gist.github.com"],
-    icon: RiGithubLine,
+    icon: VscGithubAlt,
   },
   {
     keywords: ["react"],
